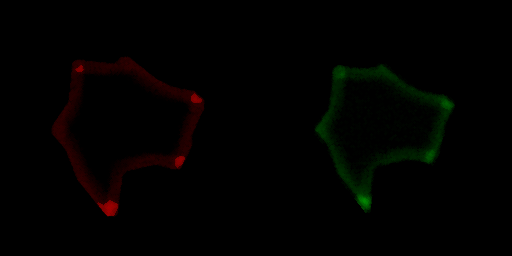
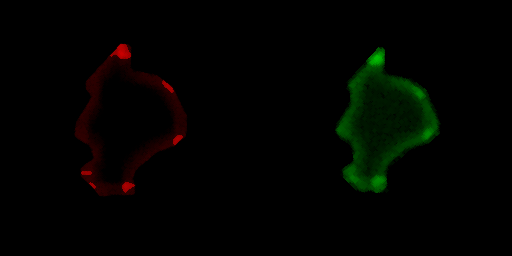
2D Texturised Cell Code

diff --git a/Texture.m b/Texture.m
@@ -23,7 +23,7 @@ function cell = Texture(img,pix)
     for i = 1:pix
         for j = 1:pix
             if  edges1(i,j) > 0 && tmp1(i,j) > 0.4
-                cell(i,j,1) = 1.2*tmp1(i,j)-0.1*rand(1);
+                cell(i,j,1) = 1.5*tmp1(i,j)-0.1*rand(1);
             elseif edges1(i,j) > 0 && tmp1(i,j) < 0.4
                 cell(i,j,1) = .5*tmp1(i,j)-0.1*rand(1);
             end
@@ -36,14 +36,14 @@ function cell = Texture(img,pix)
     for i = 1:pix
         for j = 1:pix
             if inner(i,j) > 0
-                cell(i,j,2) = 2*tmp2(i,j) + 0.1*rand(1);
+                cell(i,j,2) = 2.5*tmp2(i,j) + 0.2*rand(1);
             end
         end
     end
     
     %% Dilate the channels to smooth texture
     cell(:,:,1) = imdilate(cell(:,:,1),strel('disk', 1));
-    cell(:,:,2) = imdilate(cell(:,:,2),strel('disk', 1));
+    cell(:,:,2) = imdilate(cell(:,:,2),strel('disk', 2));
 
 end
 

diff --git a/shapes3D.m b/shapes3D.m
@@ -26,19 +26,21 @@ function shapes3D()
     vlm = zeros(pix,pix,pix/4);
     for i = 1:length(t)
         if ~isnan(t(i))
+            points1(i,3)
             vlm(points1(i,1),points1(i,2),(points1(i,3)-1)/4) = 1;
         end
     end
     
     cell = zeros(pix,pix,3,pix/4);
     for i = 1:pix/4
-        cell(:,:,:,i) = Texture(cat(3,vlm(:,:,i),vlm(:,:,i),vlm(:,:,i)),pix);
+        tmp = imdilate(imerode(vlm(:,:,i), strel('disk',15)), strel('disk',15));
+        cell(:,:,:,i) = Texture(cat(3,tmp,tmp,tmp),pix);
     end
     
     
     figure(2)
-    for i = 20:31
-        subplot(3,4,i-19)
+    for i = 16:27
+        subplot(3,4,i-15)
         imshow(cell(:,:,:,i))
     end
     

diff --git a/shapes.m b/shapes.m
@@ -3,7 +3,7 @@ function shapes(num,purpose)
 % num - number of files to save from code
 % purpose - what is the file to be used for? 'train' or 'test'
 
-for i = 1:num
+for n = 1:num
     pix = 256; %Number of pixels
     sd = pix/10; %Standard Deviation
 
@@ -43,7 +43,7 @@ for i = 1:num
     
     file = cat(2,r,g);
 
-    imwrite(file,['2D-figs/' purpose '/Fake-Cell' (num2str(num)) '.png'])
+    imwrite(file,['2D-figs/' purpose '/Fake-Cell' (num2str(n)) '.png'])
     
 end
     
